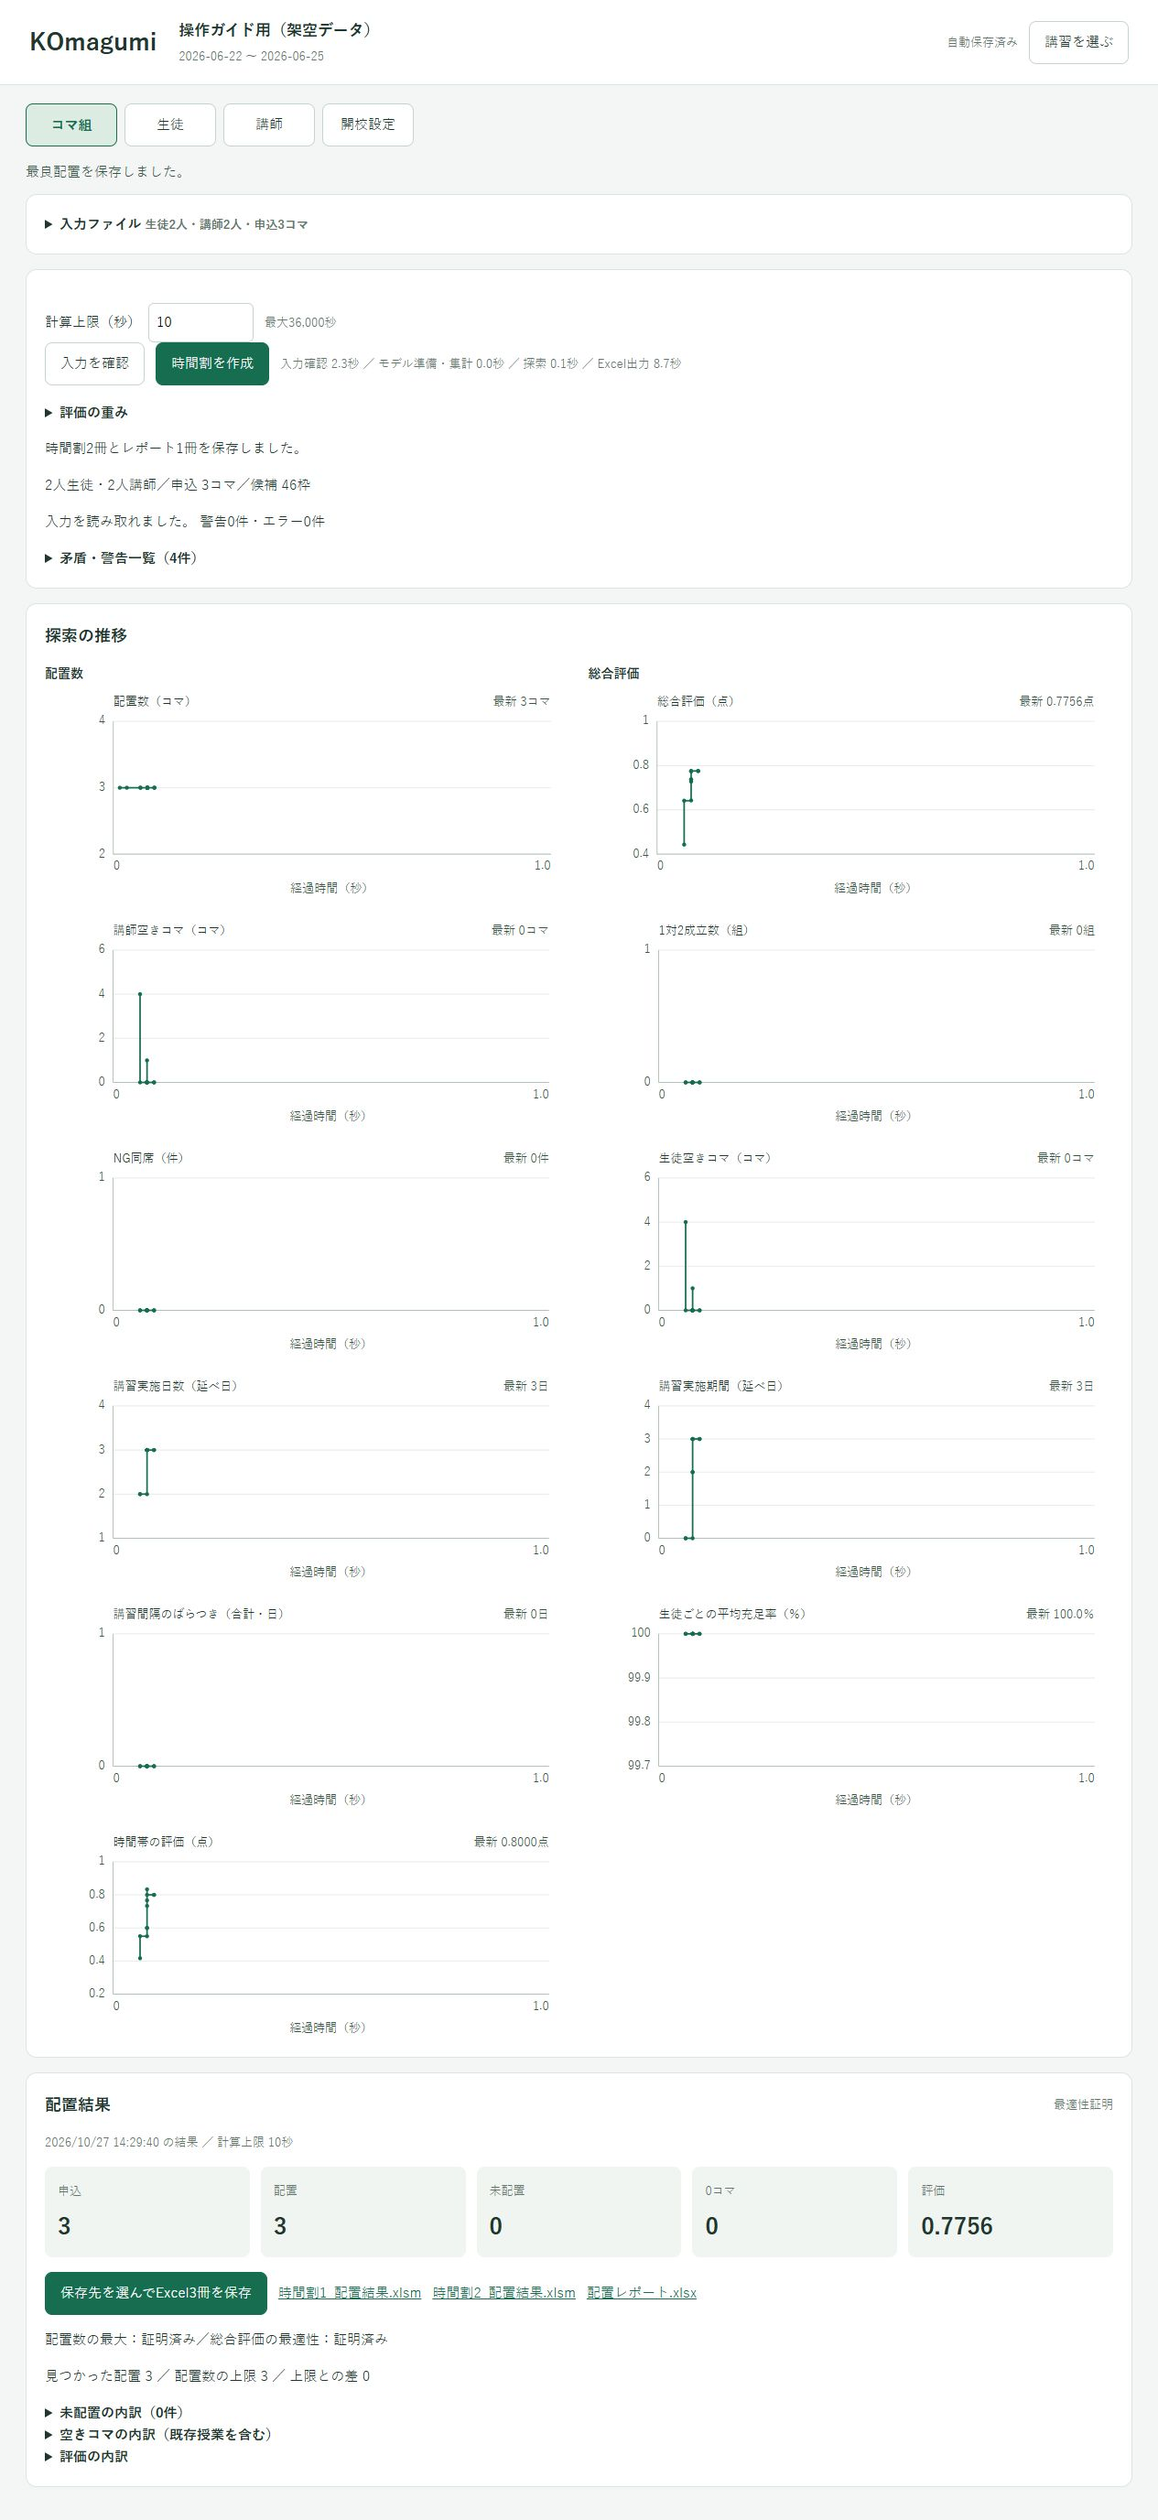
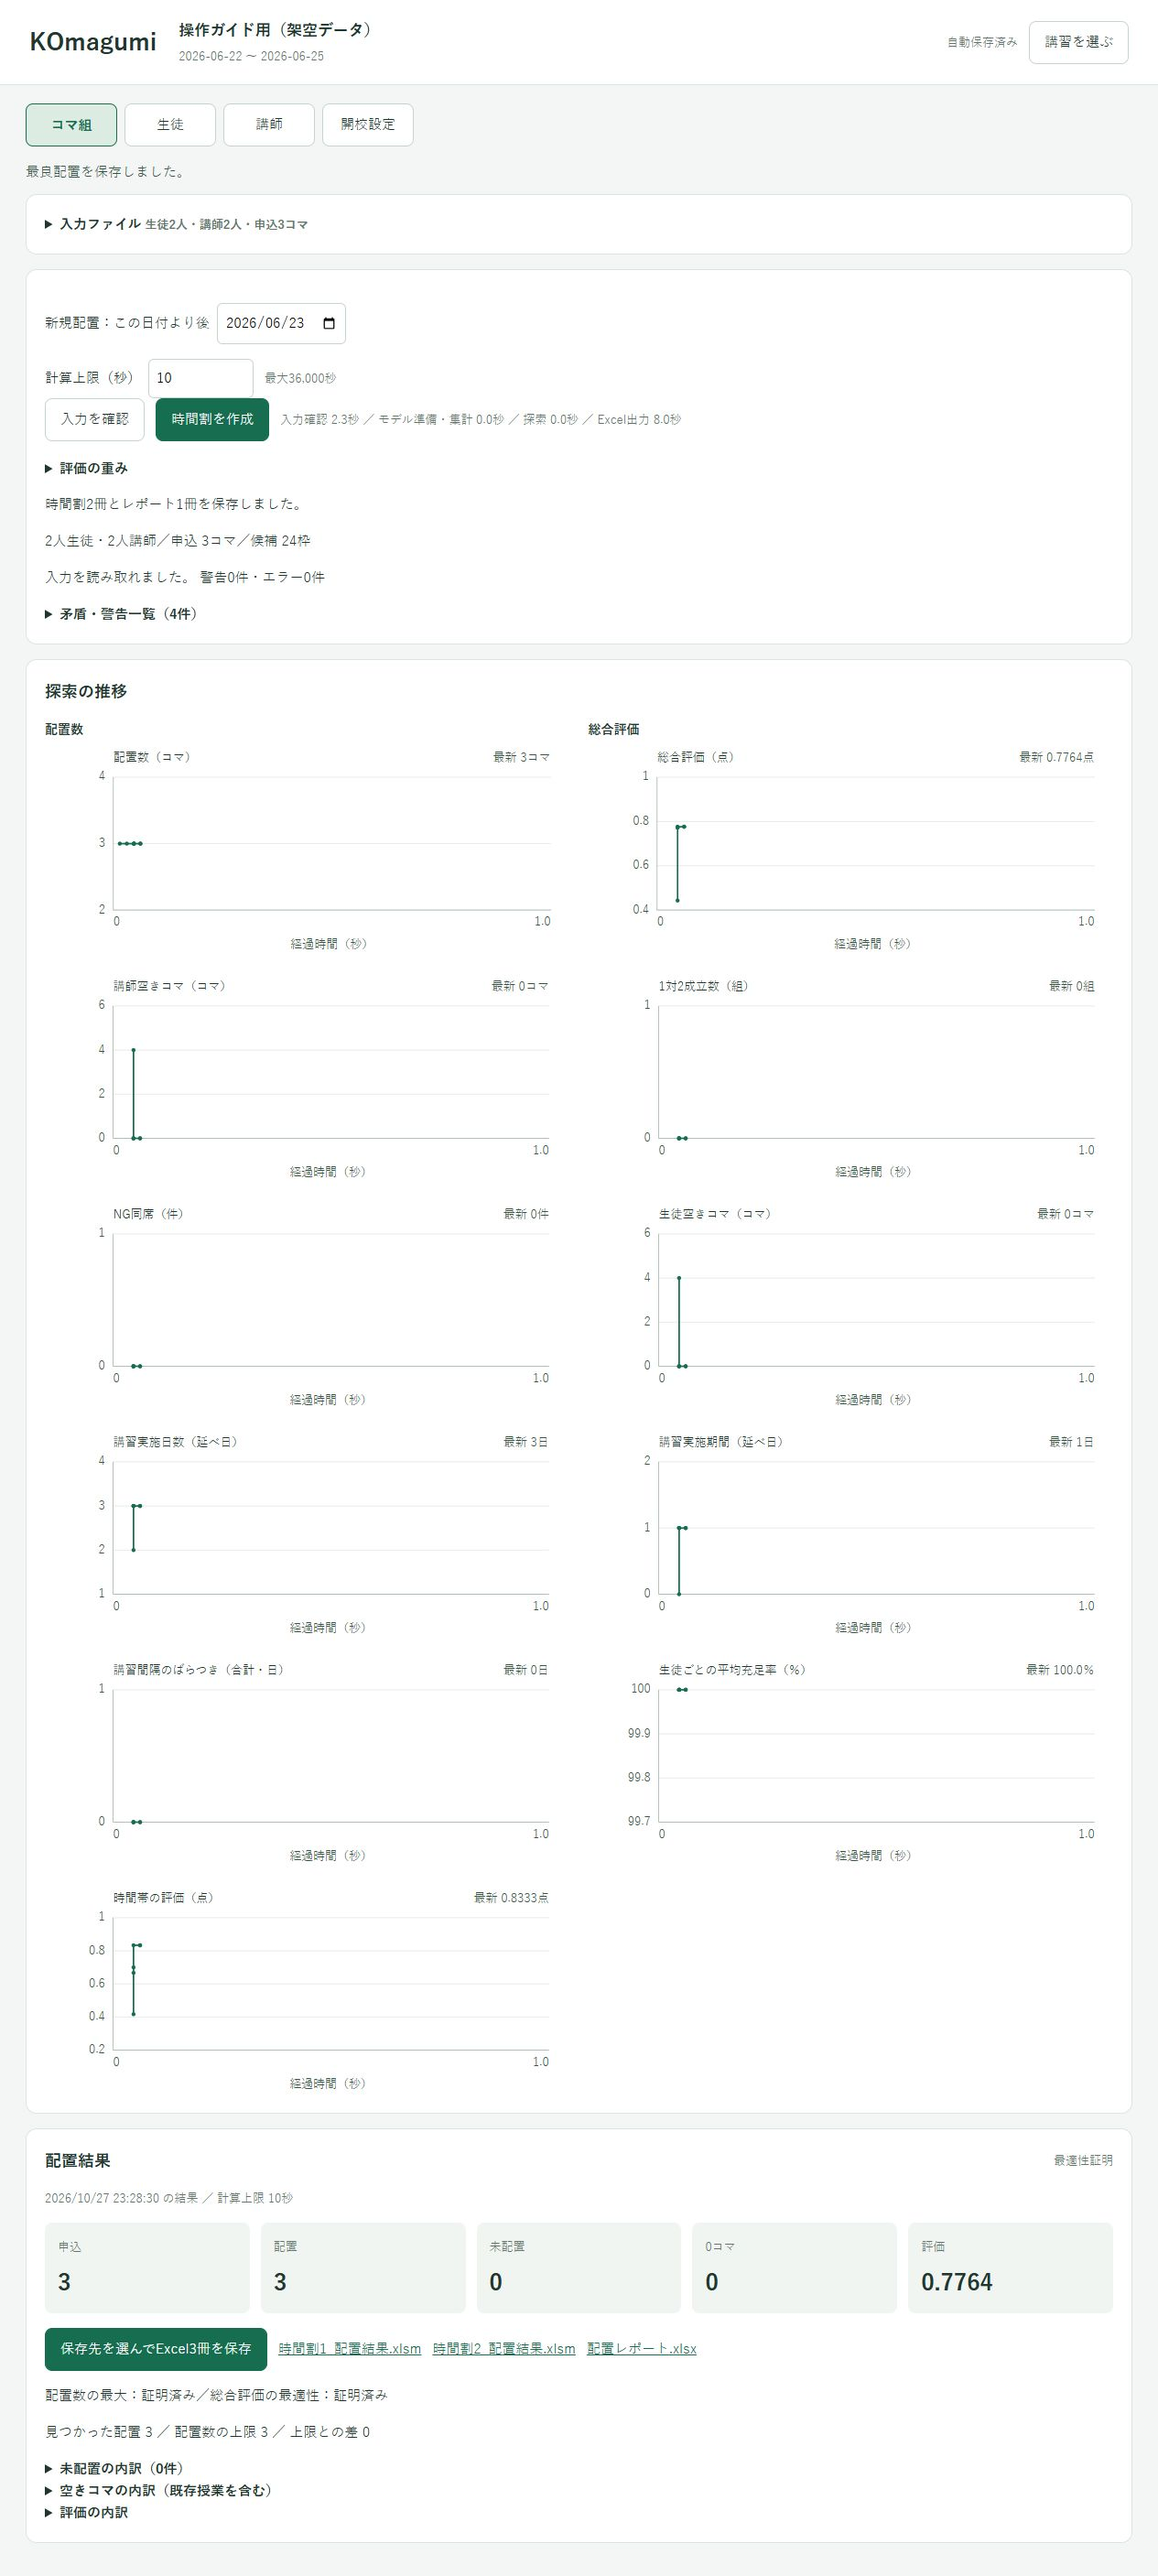
Release 0.9.2: document and demonstrate new-placement date cutoff

diff --git a/user/changes.md b/user/changes.md
@@ -10,6 +10,7 @@
 |---|---|
 | 生徒・講師の予定だけ | アプリの「生徒」「講師」で○×を変更 |
 | 休講・使用コマ・基本期間 | 「開校設定」を変更 |
+| 新しく追加する日付だけ制限したい | 「コマ組」で新規配置の基準日を指定 |
 | 既存授業、時間割側の名簿 | 最新の時間割2冊を選び「時間割を反映」 |
 | 申込数、担当、PS1だけ | 最新の申込Excelを読み直す |
 | 生徒や講師が増えた | 時間割の名簿→反映→新しい人の○×→申込の順に更新 |
@@ -32,6 +33,16 @@
 `.komagumi`だけを別PCで開いた場合も○×自体は編集できます。ただし、**既存授業の表示と再計算にはExcelが必要**です。別PCでは先に最新の時間割2冊と申込を読み込んでから編集すると、授業との重なりも確認できます。
 
 ○×の変更だけで、配置済みの授業は移動・削除されません。確定済み授業に来られなくなった場合は、職員が時間割Excelを修正します。
+
+## 指定した日付より後だけに追加したい
+
+「コマ組」の **「新規配置：この日付より後」** に日付を入れます。たとえば6/23を指定すると、6/24以降だけに新しい授業を追加します。指定日当日は入りません。日付制限が不要なら空欄に戻します。
+
+![追加する日付の設定はコマ組にあります](../assets/screenshots/25-placement-date.jpg)
+
+この設定は.komagumiに自動保存され、同じ講習の再開・PC移動・時間割の読み直しでも引き継がれます。生徒・講師・教室の○×はそのままで構いません。中学生は基本の講習期間にも収めます。
+
+指定日以前の通常・講習授業は残り、既存講習は契約総数から消化済みとして数えます。確定した前回結果を保持して続けたい場合は、次の手順で出力の時間割2冊を最新入力として読み込みます。基準日を設定するだけでは、前回の計算結果を入力時間割へ取り込みません。
 
 <a id="re-run"></a>
 

diff --git a/technical/FUNCTIONS.md b/technical/FUNCTIONS.md
@@ -2,7 +2,7 @@
 
 [← 技術資料](README.md) · [全体の構成図](ARCHITECTURE.md)
 
-以下のパスは**非公開の開発リポジトリ内**の位置。公開リポジトリからソースを読めるという意味ではない。v0.9.1の実装に対応する。
+以下のパスは**非公開の開発リポジトリ内**の位置。公開リポジトリからソースを読めるという意味ではない。v0.9.2の実装に対応する。
 
 ## 計算の流れ
 
@@ -23,6 +23,7 @@ flowchart LR
 | `reader.py: inspect_workbook(path)` | OOXML → Inspection。名簿・日時・物理授業・セル・既存矛盾を読む |
 | `bundle.py: inspect_schedules(paths)` | 2冊 → 共通Inspection。人物・時刻・日付範囲・出力先を照合 |
 | `inputs.py: read_input_files(...)` | 設定・申込・可否＋名簿 → Inputs。担当・総数・PS1等を検証 |
+| `inputs.py: Inputs.can_add_on(day, student)` | 期間判定に新規配置の基準日を重ね、指定日の翌日以降だけ許可。既存消化はcontains_dateで別判定 |
 | `problem.py: prepare(schedule, inputs)` | Inspection＋Inputs → Problem。固定集計、担当/科目残数、候補・棄却理由 |
 | `problem.py: placement_upper_bound(problem)` | 候補と残数 → 生徒別最大流の緩和上界 |
 | `solver.py: solve(problem, time_limit=180, ...)` | Problem → Solution。配置数先行、複合目的、停止、最良、証明状況、推移 |

diff --git a/technical/STATUS.md b/technical/STATUS.md
@@ -2,7 +2,7 @@
 
 [← 技術資料](README.md)
 
-対象：**v0.9.1 / combined-schedule-v8**。2026年10月27日時点。
+対象：**v0.9.2 / combined-schedule-v8**。2026年10月27日時点。
 
 | 範囲 | 状態 |
 |---|---|
@@ -14,6 +14,7 @@
 | 現行書式のデモ読込→3配置→Excel3冊生成・保存 | 開発PCで確認。通常2コマを保持し、後半0件。探索0.1秒 |
 | 元帳票の数式・色・幅・結合・VBA保持 | 数式121,182件/冊と非値構造・書式・VBAの一致を検証。Excelで再計算・表示確認 |
 | 予定のみ編集、時間割/申込更新、生徒・講師の追加 | 架空デモで確認。以前の○×を保持。画像付き手順に反映 |
+| 新規配置の基準日・.komagumiへの保存 | 指定日当日の除外、全学年/中学生期間、旧データ、別PC往復、Excel差替え、Undo/Redo、対象0を確認 |
 | セットアップ・更新拒否・削除時の講習保持 | WebView2導入済みの開発PCで確認 |
 | 匿名のPython/JavaScriptテスト | Windows CIで成功。業務データ依存は別扱い |
 | 会社Excel、会社の導入権限、非技術者の実運用 | **受入未完了** |

diff --git a/technical/MATHEMATICAL_MODEL.md b/technical/MATHEMATICAL_MODEL.md
@@ -1,6 +1,6 @@
 [← 技術資料](README.md)
 
-対象：v0.9.1。開発側の同名文書から生成した公開参照版。
+対象：v0.9.2。開発側の同名文書から生成した公開参照版。
 
 # 数理モデルと最適性
 
@@ -16,6 +16,8 @@
 - $C\subseteq A\times D\times P$：単独追加が可能な候補。名簿、期間、本人○、講師○、開校、既存占有、PS1、検証済み空欄等を照合した集合。
 
 中学生の新規候補は基本期間内のみ。小学生・高校生はExcel全期間を使え、基本期間外の減点はない。対象外の0コマ等にある既存授業も日上限・連続・空き等へ含める。
+
+任意の基準日 $d_0$（newPlacementAfter）がある場合、候補集合Cへ $d>d_0$ を追加する。指定日当日は除外する。期間・消化判定contains_dateと新規判定can_add_onを分け、既存授業Fや既存消化eは基準日で削らない。独立出力検証でも日付を再確認する。候補0でも新規0の解を返す。日数系の評価日集合は許可される新規対象日と既存講習日の和集合で、空集合は対象外。
 
 ## 変数
 

diff --git a/CHANGELOG.md b/CHANGELOG.md
@@ -2,6 +2,12 @@
 
 [← トップ](README.md)
 
+## v0.9.2（2026-10-27）
+
+「コマ組」に「新規配置：この日付より後」を追加しました。指定日の翌日以降だけに新しい講習を追加します。空欄ならこの制限はありません。設定は.komagumiへ自動保存され、再開・PC移動・時間割の読み直しで引き継ぎます。
+
+指定日以前の既存授業・講習の消化・評価と、入力済み○×は保ちます。デモは6/23を指定し、通常授業2コマを残して6/24〜25へ講習3コマを追加する例へ更新しました。操作ガイド・技術資料・レポートの実行条件にも反映しています。Excelの入力書式は変更していません。
+
 ## v0.9.1（2026-10-27）
 
 デモの時間割を、現行のExcel帳票のコピーへ差し替えました。数式・色・セル幅・結合・マクロを保ち、個人情報を仮名へ置き換えています。前半には通常授業2コマ、後半には既存授業がありません。練習で使うのは4日間・生徒2人・講師2人・申込3コマです。

diff --git a/technical/RULES.md b/technical/RULES.md
@@ -2,7 +2,7 @@
 
 [← 技術資料](README.md) · [数理モデル](MATHEMATICAL_MODEL.md)
 
-配布版v0.9.1の仕様要約。変更作業では、アクセス可能な開発リポジトリの `REQUIREMENTS.md` と付属定義を正本にする。
+配布版v0.9.2の仕様要約。変更作業では、アクセス可能な開発リポジトリの `REQUIREMENTS.md` と付属定義を正本にする。
 
 ## 固定と追加
 
@@ -16,6 +16,7 @@
 |---|---|
 | 名簿と日時 | 人物が書込先の冊子に存在。実際の空欄セルがある |
 | 期間 | 中学生は基本期間内、小学生・高校生はExcel全表示期間。期間外減点なし |
+| 新規配置の基準日 | 指定日の翌日以降だけ追加。全学年に適用。省略時は制限なし |
 | 個人と教室 | 生徒○、担当講師○、教室開校、使用対象コマ |
 | 占有 | 生徒は同時刻1授業。講師は最大2人 |
 | PS1 | 生徒×科目の1対1契約。同じ講師・コマへの同席なし |

diff --git a/technical/TESTING.md b/technical/TESTING.md
@@ -36,6 +36,8 @@ node --test prototypes/availability_intake/test_core.cjs prototypes/teacher_avai
 
 ## 配布
 
+新規配置の基準日は、指定日当日の除外・全学年/中学生期間・既存消化/評価の維持・改ざん候補の独立検証・対象0・レポート・旧設定・.komagumi往復/Undo/Redo/Excel再接続を検証する。公開デモでは6/23を指定し、通常2授業を保護して6/24〜25に3配置・未配置0、後半空欄・入力不変を確認する。
+
 開発側の `tools/build_windows.py` がonefileのKOmagumi.exeを生成し、`tools/build_setup.py --fetch` が公式WebView2オフライン導入を内包したKOmagumiSetup.exeを生成する。既存の版は上書きせず新しいリリース番号を使う。
 
 公開前は、許可した文書・資産の一覧、実名/機密情報、アーカイブ内の実資産、配布SHAを確認する。利用者のExcel、講習、内部作業コピー、実験ログを同梱しない。

diff --git a/technical/INPUT_OUTPUT.md b/technical/INPUT_OUTPUT.md
@@ -37,6 +37,8 @@
 
 ## .komagumi
 
+`courseSettings.newPlacementAfter`は新規配置の基準日で、厳密なYYYY-MM-DDまたは空文字。省略時も制限なし。コマ組で編集し、指定日当日を除いた翌日以降へだけ追加する。既存授業の消化・占有・評価を切り捨てない。可否と一緒に保存・移動・Excel差替え・Undo/Redoで保持し、レポートにも基準日を記録する。
+
 SHA付きのコンテナ。人物・日時の対応、全可否、既存欠席、メモ、NG、期間、使用コマ、重み、直近10操作を保存する。**暗号化ではない**ため、人物や予定の保護は利用先のファイル管理で行う。
 
 Excel本体、既存/新規授業明細、申込数量、PS1、生成結果、探索ログは格納しない。別PCでは時間割と申込を再接続する。同じPCでは内部作業コピーを再利用できる。
